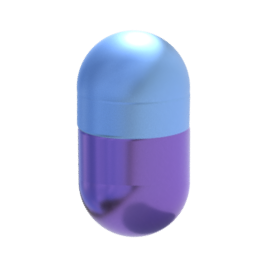
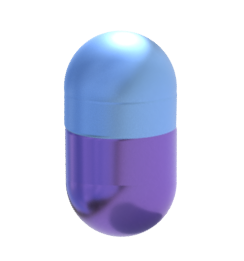
design: OpenCapsule 구성 및 css 수정

Changed region(s): [[0.2582, 0.1226, 0.7459, 0.9195]]

diff --git a/src/styles/OpenCapsule.css b/src/styles/OpenCapsule.css
@@ -3,17 +3,19 @@
     display: flex;
     flex-direction: column;
     align-items: center;
+
+    background: linear-gradient(180deg, rgba(96, 87, 115, 0.00) 0%, #AA9ACC 60.42%), #FFF;
+    min-height: 100vh;
 }
+/*menu*/
 .OpenCapsule .image_menu{
     position: absolute;
     cursor: pointer;
-    width: 20px;
-    height: 16px;
-    /* top: 74px; */
-    top: 34px;
-    left: 345px;
-    /* padding: 0px, 0px, 0px, 0px; */
-    /* border: 2.5px; */
+    top: 2rem;
+    right: 2rem;
+    width: 1.25rem;
+    height: 1rem;
+    flex-shrink: 0;
 }
 .OpenCapsule .menu{
     position: absolute;
@@ -24,66 +26,84 @@
     border-top-left-radius: 20px;
     border-bottom-left-radius: 20px;
 }
-.OpenCapsule .img_isOpened_true{
+/*image - capsule*/
+.OpenCapsule .image_section{
     position: absolute;
+    width: 100%;
+    height: 40%;
+    top: 20%;
+    display: flex;
+    align-items: center;
+    justify-content: center;
+}
+.OpenCapsule .img_isOpened_true{
+    /* position: absolute;
     width: 338px;
     height: 218px;
     top: 245px;
-    left: 22px;
+    left: 22px; */
+    width: 21.125rem;
+    height: 13.625rem;
+    flex-shrink: 0;
 }
 .OpenCapsule .img_isOpened_false{
+    width: 15rem;
+    height: 16.05rem;
+    flex-shrink: 0;
     position: absolute;
-    /* width: 268.16px;
-    height: 235.14px; */
-    top: 225px;
-    left: 64px;
 }
-.OpenCapsule img.clock{
+/*texts*/
+.OpenCapsule .text_section{
     position: absolute;
-    width: 29px;
-    height: 33px;
-    top: 574px;
-    left: 182px;
-    border: 2px;
+    width: 100%;
+    height: 40%;
+    top: 60%;
+    display: flex;
+    flex-direction: column;
+    align-items: center;
+    padding: 1rem 0;
+}
+.OpenCapsule img.clock{ 
+    width: 1.8125rem;
+    height: 2.0625rem;
+    flex-shrink: 0;
 }
 .OpenCapsule .maintext{
-    position: absolute;
     cursor: default;
-    color: #FFFFFF;
-    font-family: "Pretendard";
-    font-size: 40px;
-    font-weight: 700;
-    /* line-height: 13px; */
-    line-height: 2;
-    letter-spacing: 0.06599999964237213px;
-    text-align: center;
-    width: 350px;
-    height: 96px;
-    top: 607px;
-    left: 22px;
-    text-align: center;
-}
-.OpenCapsule .button_wrapper{
-    position: absolute;
-    text-align: center; 
-    width: 350px;
-    height: 96px;
-    top: 662px;
-    left: 21px;
     display: flex;
+    width: 21.875rem;
+    height: 6rem;
+    flex-direction: column;
     justify-content: center;
-    align-items: center;
+    flex-shrink: 0;
+    color: #FFF;
+    text-align: center;
+    text-shadow: 0px 2px 1px rgba(0, 0, 0, 0.25);
+    font-family: 'Pretendard';
+    font-size: 2.5rem;
+    font-style: normal;
+    font-weight: 700;
+    line-height: 0.8125rem; /* 32.5% */
+    letter-spacing: 0.00413rem;
 }
-.OpenCapsule .button_wrapper button{
-    font-family: "Pretendard";
-    font-size: 16px;
-    font-weight: 300;
-    letter-spacing: 0.06599999964237213px;
-    line-height: 13px;
+.OpenCapsule .text_section button{
     background-color: transparent;
     outline: none;
     border: none;
-    color: #ffffff;
+    display: flex;
+    /* width: 21.875rem; */
+    /* height: 6rem; */
+    /* flex-direction: column; */
+    /* justify-content: center; */
+    flex-shrink: 0;
+    color: #FFF;
+    text-align: center;
+    font-family: 'Pretendard';
+    font-size: 1rem;
+    font-style: normal;
+    font-weight: 300;
+    line-height: 0.8125rem; /* 81.25% */
+    letter-spacing: 0.00413rem;
 }
 .OpenCapsule .btn_isOpened_true{
     cursor: pointer;
@@ -93,47 +113,48 @@
     display: none;
 }
 .OpenCapsule .ellipses_false .circle{
-    position: absolute;
-    width: 297px;
-    height: 297px;
-    top: 204px;
-    left: 48px;
-    border: 1px;
+    width: 18.5625rem;
+    height: 18.5625rem;
+    flex-shrink: 0;
 }
 .OpenCapsule .ellipse{
     position: absolute;
-    width: 37px;
-    height: 37px;
+    width: 2.3125rem;
+    height: 2.3125rem;
+    flex-shrink: 0;
 }
 .OpenCapsule .ellipse.type1{
-    top: 281px;
-    left: 97px;
+    top: 5.75rem;
+    left: 6.5rem;
 }
 .OpenCapsule .ellipse.type2{
-    top: 215px;
-    left: 209px;
+    top: 1.5rem;
+    left: 13.3rem;    
 }
 .OpenCapsule .ellipse.type3{
-    width: 58px;
-    height: 58px;
-    top: 223px;
-    left: 221px;
+    top: 2rem;
+    left: 14rem;
+    
+    width: 3.625rem;
+    height: 3.625rem;
 }
-.OpenCapsule .ellipses_false .ellipse{
-    width: 41px;
-    height: 41px;
+.OpenCapsule .ellipses_false .ellipse{    
+    width: 2.5625rem;
+    height: 2.5625rem;
+    flex-shrink: 0;
 }
 .OpenCapsule .ellipses_false .ellipse.type1{
-    top: 426px;
-    left: 62px;
+    top: 14.5rem;
+    left: 3.7rem;
 }
 .OpenCapsule .ellipses_false .ellipse.type2{
-    top: 239px;
-    left: 291px;
+    top: 3rem;
+    left: 18.2rem;
 }
 .OpenCapsule .ellipses_false .ellipse.type3{
-    width: 58px;
-    height: 58px;
-    top: 210px;
-    left: 262px;
+    top: 1.2rem;
+    left: 16.5rem;
+
+    width: 3.625rem;
+    height: 3.625rem;
 }

diff --git a/src/pages/OpenCapsule.jsx b/src/pages/OpenCapsule.jsx
@@ -13,33 +13,38 @@ const OpenCapsule = () => {
     const [isOpened, setIsOpened] = useState(false);
     const [openMenu, setOpenMenu] = useState(false);
     const menuHandler = () => {
-        setOpenMenu(!openMenu);
+        setOpenMenu(!openMenu); 
     }
     return(
         <div className="OpenCapsule">
             {!isOpened && <img className="image_menu" alt="" src={icon_menu} onClick={menuHandler}/>}
             { openMenu && <div className="menu"><Menu menuHandler={menuHandler}/></div>}
-            <img className={["img_isOpened", isOpened].join("_")} alt="" src={isOpened?image_openedCapsule:image_unopenedCapsule}/>
-            <img className="clock" alt="" src={icon_clock}/>
-            {isOpened ? 
-            <div className="maintext">오픈된 타임캡슐</div>
-            : <div className="maintext">타임캡슐 오픈까지</div>
-            }
-            <div className="button_wrapper">
-                <button className={["btn_isOpened", isOpened].join("_")}>
-                    {isOpened
-                    ?"확인하기"
-                    :"54일 1시간 30분 40초"
-                    }
-                </button>
+            <div className="image_section">
+                <img className={["img_isOpened", isOpened].join("_")} alt="" src={isOpened?image_openedCapsule:image_unopenedCapsule}/>
+                <div className={["ellipses", isOpened].join("_")}>
+                    <img className="circle"alt="" src={image_circle}/>
+                    <img className="ellipse type1"alt="" src={image_ellipse}/>
+                    <img className="ellipse type2"alt="" src={image_ellipse}/>
+                    <img className="ellipse type3"alt="" src={image_ellipse}/>
+                </div>
+            </div>
+            <div className = "text_section">            
+                <img className="clock" alt="" src={icon_clock}/>
+                {isOpened ? 
+                <div className="maintext">오픈된 타임캡슐</div>
+                : <div className="maintext">타임캡슐 오픈까지</div>
+                }
+                {/* <div className="button_wrapper"> */}
+                    <button className={["btn_isOpened", isOpened].join("_")}>
+                        {isOpened
+                        ?"확인하기"
+                        :"54일 1시간 30분 40초"
+                        }
+                    </button>
+                {/* </div> */}
             </div>
             <button onClick={()=>setIsOpened(!isOpened)}>toggle</button>
-            <div className={["ellipses", isOpened].join("_")}>
-                <img className="circle"alt="" src={image_circle}/>
-                <img className="ellipse type1"alt="" src={image_ellipse}/>
-                <img className="ellipse type2"alt="" src={image_ellipse}/>
-                <img className="ellipse type3"alt="" src={image_ellipse}/>
-            </div>
+            
         </div>
     )
 }
